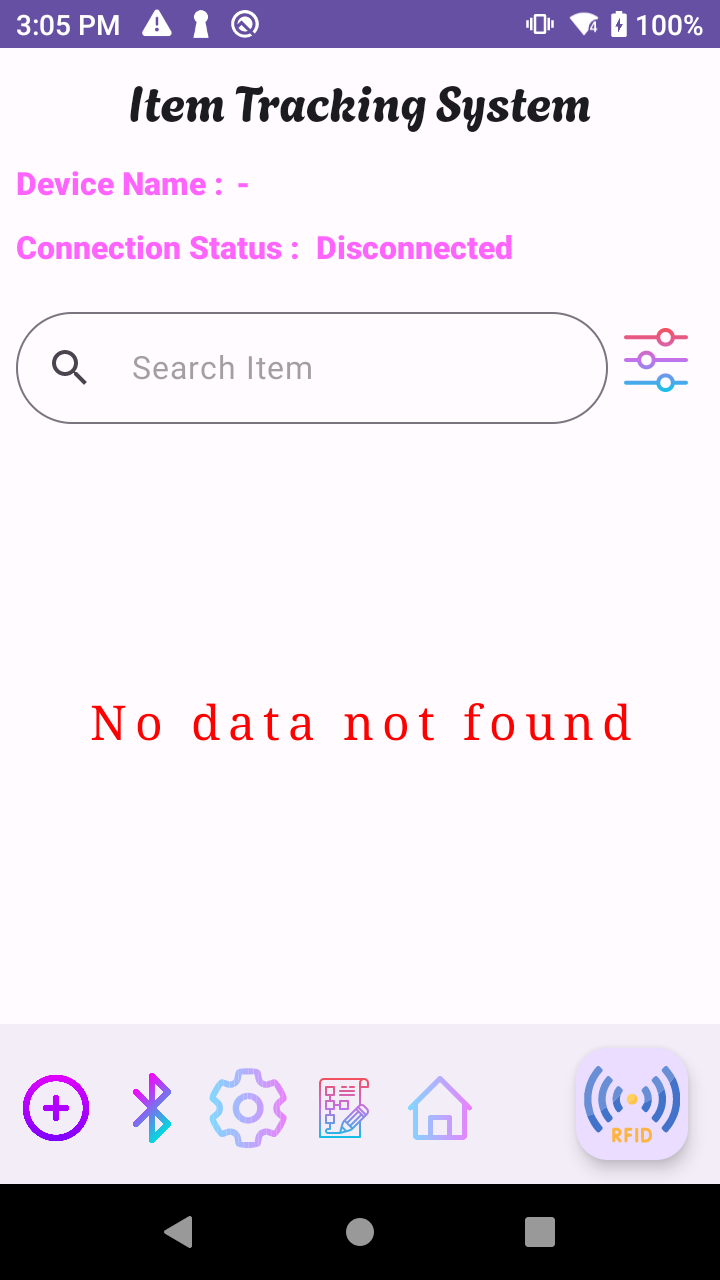
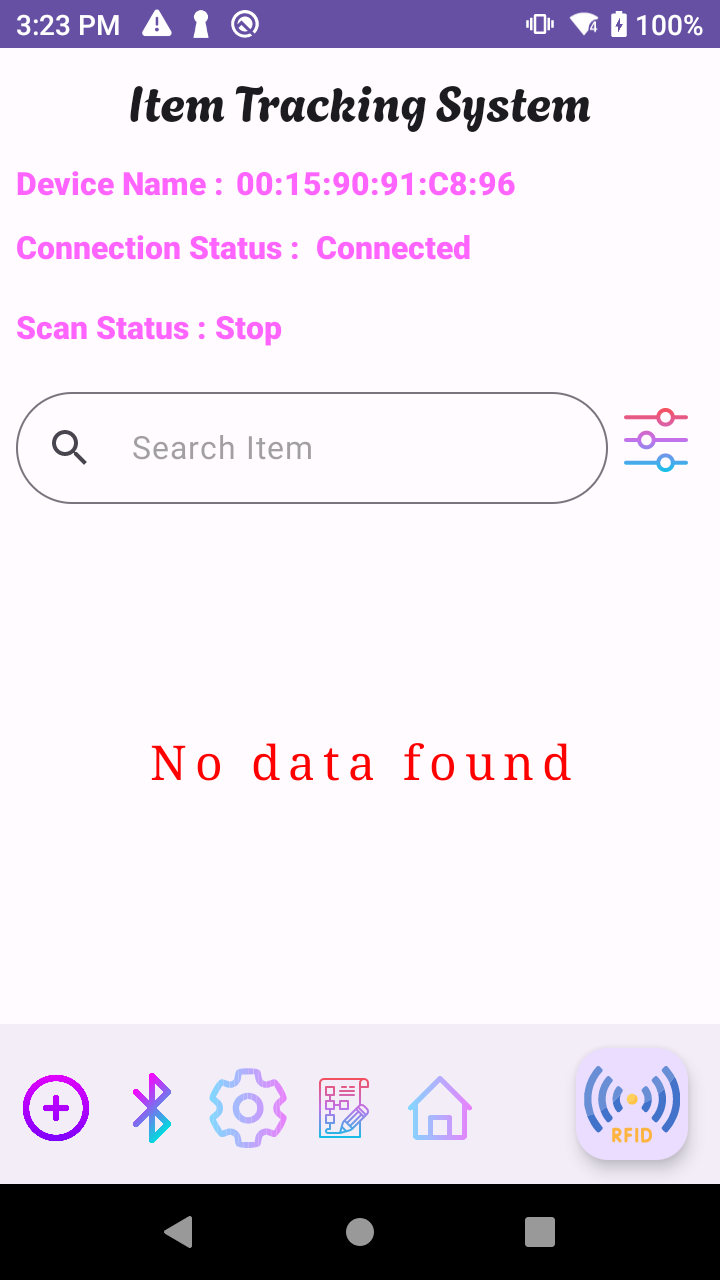
Fix wording

diff --git a/app/src/main/java/com/tzh/itemTrackingSystem/screen/item/ItemScreen.kt b/app/src/main/java/com/tzh/itemTrackingSystem/screen/item/ItemScreen.kt
@@ -106,13 +106,20 @@ fun ItemScreen(
 
     Column(modifier = modifier, verticalArrangement = Arrangement.spacedBy(8.dp)) {
         Row(verticalAlignment = Alignment.CenterVertically) {
-            SearchView(modifier = Modifier.weight(1f), defaultValue = uiState.searchText, label = "Search Item") {
+            SearchView(
+                modifier = Modifier.weight(1f),
+                defaultValue = uiState.searchText,
+                label = "Search Item"
+            ) {
                 viewModel.updateSearchText(it)
             }
             IconButton(onClick = {
                 showFilter = true
             }) {
-                Image(painter = painterResource(id = R.drawable.filter), contentDescription = "Filter")
+                Image(
+                    painter = painterResource(id = R.drawable.filter),
+                    contentDescription = "Filter"
+                )
             }
         }
         if (uiState.isLoading) {
@@ -122,8 +129,12 @@ fun ItemScreen(
                 horizontalAlignment = Alignment.CenterHorizontally
             ) {
                 Text(
-                    text = "Getting data please wait....", style = MaterialTheme.typography.headlineSmall.copy(
-                        color = Color.Red, fontFamily = FontFamily.Serif, letterSpacing = 4.sp, textAlign = TextAlign.Center
+                    text = "Getting data please wait....",
+                    style = MaterialTheme.typography.headlineSmall.copy(
+                        color = Color.Red,
+                        fontFamily = FontFamily.Serif,
+                        letterSpacing = 4.sp,
+                        textAlign = TextAlign.Center
                     )
                 )
                 CircularProgressIndicator(
@@ -134,12 +145,18 @@ fun ItemScreen(
 
         AnimatedVisibility(modifier = Modifier.weight(1f), visible = !uiState.isLoading) {
             if (itemList.isEmpty()) {
-                Column(modifier = Modifier.fillMaxSize(), verticalArrangement = Arrangement.Center) {
+                Column(
+                    modifier = Modifier.fillMaxSize(),
+                    verticalArrangement = Arrangement.Center
+                ) {
                     Text(
                         modifier = Modifier.fillMaxWidth(),
-                        text = "No data not found",
+                        text = "No data found",
                         style = MaterialTheme.typography.headlineSmall.copy(
-                            color = Color.Red, fontFamily = FontFamily.Serif, letterSpacing = 4.sp, textAlign = TextAlign.Center
+                            color = Color.Red,
+                            fontFamily = FontFamily.Serif,
+                            letterSpacing = 4.sp,
+                            textAlign = TextAlign.Center
                         )
                     )
                 }
@@ -168,7 +185,12 @@ fun ItemScreen(
 
 @OptIn(ExperimentalFoundationApi::class, ExperimentalMaterial3Api::class)
 @Composable
-private fun LazyItemScope.CardItem(itemEntity: Item, delete: (Item) -> Unit, editItem: (Item) -> Unit, onClick: () -> Unit) {
+private fun LazyItemScope.CardItem(
+    itemEntity: Item,
+    delete: (Item) -> Unit,
+    editItem: (Item) -> Unit,
+    onClick: () -> Unit
+) {
 
     var deleteId: Int? by remember { mutableStateOf(null) }
     val backgroundColor by animateColorAsState(
@@ -182,7 +204,12 @@ private fun LazyItemScope.CardItem(itemEntity: Item, delete: (Item) -> Unit, edi
     )
     if (deleteId != null) {
         AlertDialog(
-            icon = { Icon(imageVector = Icons.Default.Notifications, contentDescription = "Delete Alert") },
+            icon = {
+                Icon(
+                    imageVector = Icons.Default.Notifications,
+                    contentDescription = "Delete Alert"
+                )
+            },
             onDismissRequest = {},
             dismissButton = {
                 ElevatedButton(onClick = { deleteId = null }) {
@@ -226,7 +253,9 @@ private fun LazyItemScope.CardItem(itemEntity: Item, delete: (Item) -> Unit, edi
                 )
             )
             .padding(8.dp)
-            .fillMaxWidth(), colors = CardDefaults.cardColors(containerColor = backgroundColor), onClick = onClick
+            .fillMaxWidth(),
+        colors = CardDefaults.cardColors(containerColor = backgroundColor),
+        onClick = onClick
     ) {
         Row(
             modifier = Modifier
@@ -235,7 +264,10 @@ private fun LazyItemScope.CardItem(itemEntity: Item, delete: (Item) -> Unit, edi
             horizontalArrangement = Arrangement.spacedBy(4.dp),
             verticalAlignment = Alignment.CenterVertically
         ) {
-            Column(verticalArrangement = Arrangement.spacedBy(4.dp), modifier = Modifier.weight(1f)) {
+            Column(
+                verticalArrangement = Arrangement.spacedBy(4.dp),
+                modifier = Modifier.weight(1f)
+            ) {
                 Text(
                     text = itemEntity.itemName, style = MaterialTheme.typography.headlineSmall.copy(
                         fontSize = 16.sp,
@@ -244,9 +276,11 @@ private fun LazyItemScope.CardItem(itemEntity: Item, delete: (Item) -> Unit, edi
                     ), modifier = Modifier.fillMaxWidth()
                 )
                 Text(
-                    text = (itemEntity.desc ?: "-").ifEmpty { "-" }, style = MaterialTheme.typography.bodyMedium.copy(
+                    text = (itemEntity.desc ?: "-").ifEmpty { "-" },
+                    style = MaterialTheme.typography.bodyMedium.copy(
                         textAlign = TextAlign.Justify,
-                    ), modifier = Modifier.fillMaxWidth()
+                    ),
+                    modifier = Modifier.fillMaxWidth()
                 )
                 Text(
                     buildAnnotatedString {
@@ -274,12 +308,20 @@ private fun LazyItemScope.CardItem(itemEntity: Item, delete: (Item) -> Unit, edi
                 IconButton(
                     onClick = { deleteId = itemEntity.id },
                 ) {
-                    Icon(imageVector = Icons.Default.Delete, contentDescription = "Delete", tint = Color.Red.copy(alpha = .4f))
+                    Icon(
+                        imageVector = Icons.Default.Delete,
+                        contentDescription = "Delete",
+                        tint = Color.Red.copy(alpha = .4f)
+                    )
                 }
                 IconButton(
                     onClick = { editItem(itemEntity) },
                 ) {
-                    Icon(imageVector = Icons.Default.Edit, contentDescription = "Delete", tint = Color.DarkGray.copy(alpha = .8f))
+                    Icon(
+                        imageVector = Icons.Default.Edit,
+                        contentDescription = "Delete",
+                        tint = Color.DarkGray.copy(alpha = .8f)
+                    )
                 }
             }
         }
